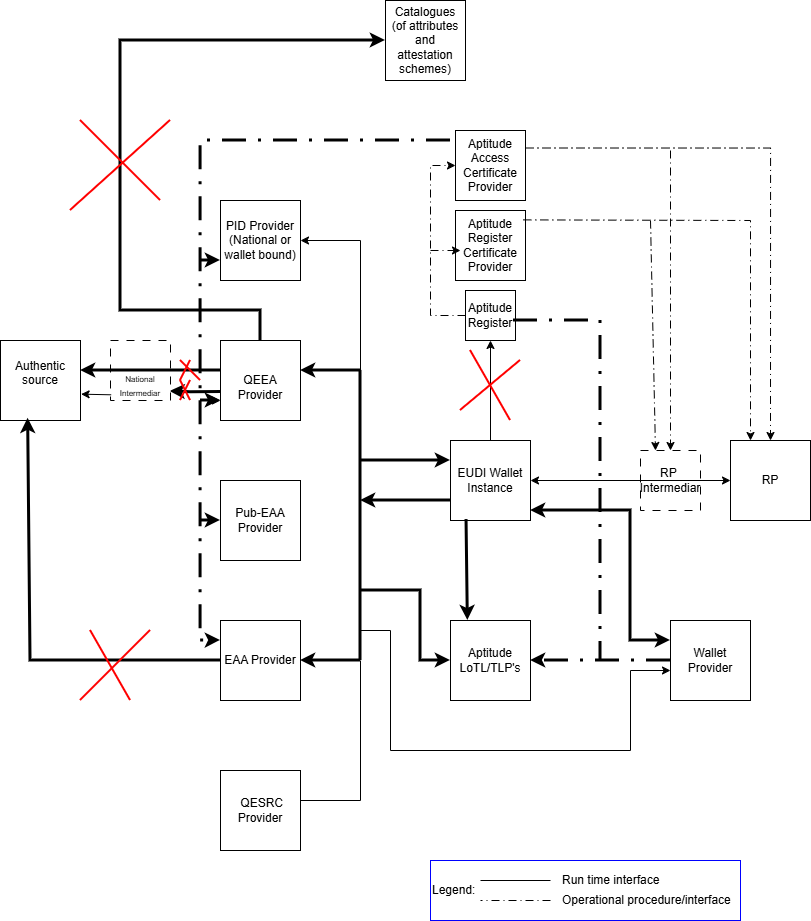
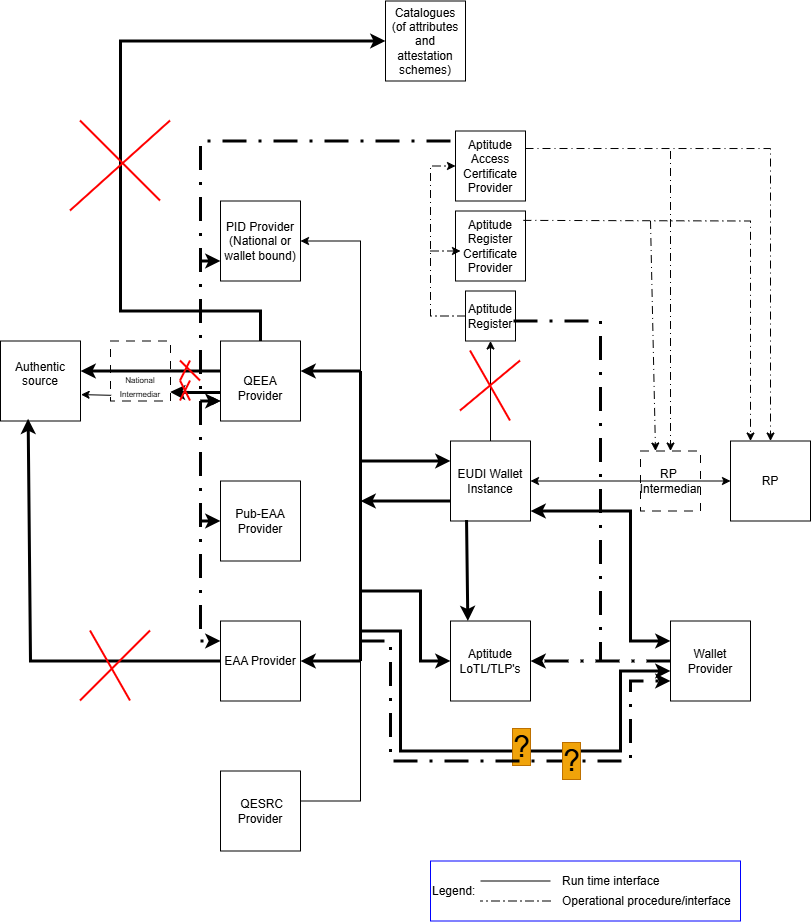
Update after aligning flow with RFC-01 future release
- Open issue on status list check usage by non PID provider versus wallet provider
- Changed 2 architecture and flow diagram
- Flagged TODO mappings towards RFC-01 future content and various trust framework content

diff --git a/docs/wp2/Generic issuance flow specification.md b/docs/wp2/Generic issuance flow specification.md
@@ -54,6 +54,7 @@ Here we are only clarifying which roles and/or interfaces are out of the scope o
 | Authentic Source → Issuer | How the Issuer retrieves data from the national authentic source | Assumed to be resolved at national level by each partner acting as Issuer |
 | QTSP → Attribute Catalogue | Citizen-initiated flow where a QTSP validates and issues a VC from scratch | No WP in APTITUDE covers this scenario |
 | Wallet → APTITUDE Register (runtime) | Runtime lookup from Wallet to APTITUDE Register | Redundant: WRPRC is provisioned at onboarding time (design-time); registration certificate is becoming mandatory per 2025/848 IA |
+| Issuer → Wallet Provider | Issuer check run time or periodically revocation of WIA and/or KA | Clarification pending with Aptitude WP2 trustgroup team  |
 
 ### 2.1 Relation between different standards and interfaces
 
@@ -147,8 +148,14 @@ TS 119 612 ver2.4.1</a></td>
 <tr>
 <td>R4</td>
 <td><a
-href="https://github.com/eu-digital-identity-wallet/eudi-doc-standards-and-technical-specifications/blob/main/docs/technical-specifications/ts3-wallet-unit-attestation.md#222-transport-of-key-attestation-ka">TS3</a></td>
+href="https://github.com/eu-digital-identity-wallet/eudi-doc-standards-and-technical-specifications/blob/main/docs/technical-specifications/ts3-wallet-unit-attestation.md#222-transport-of-key-attestation-ka">TS3 ver1.5.2</a></td>
 <td>Signing WIA and KA</td>
+</tr>
+<tr>
+<td>R5/O5</td>
+<td><a
+href="https://github.com/eu-digital-identity-wallet/eudi-doc-standards-and-technical-specifications/blob/main/docs/technical-specifications/ts3-wallet-unit-attestation.md#243-pid-provider-and-attestation-provider-responsibilities">TS3 ver1.5.2</a></td>
+<td>Run time/operational schedule  status/key storage status check on WIA/KA?</td>
 </tr>
 </tbody>
 </table>
